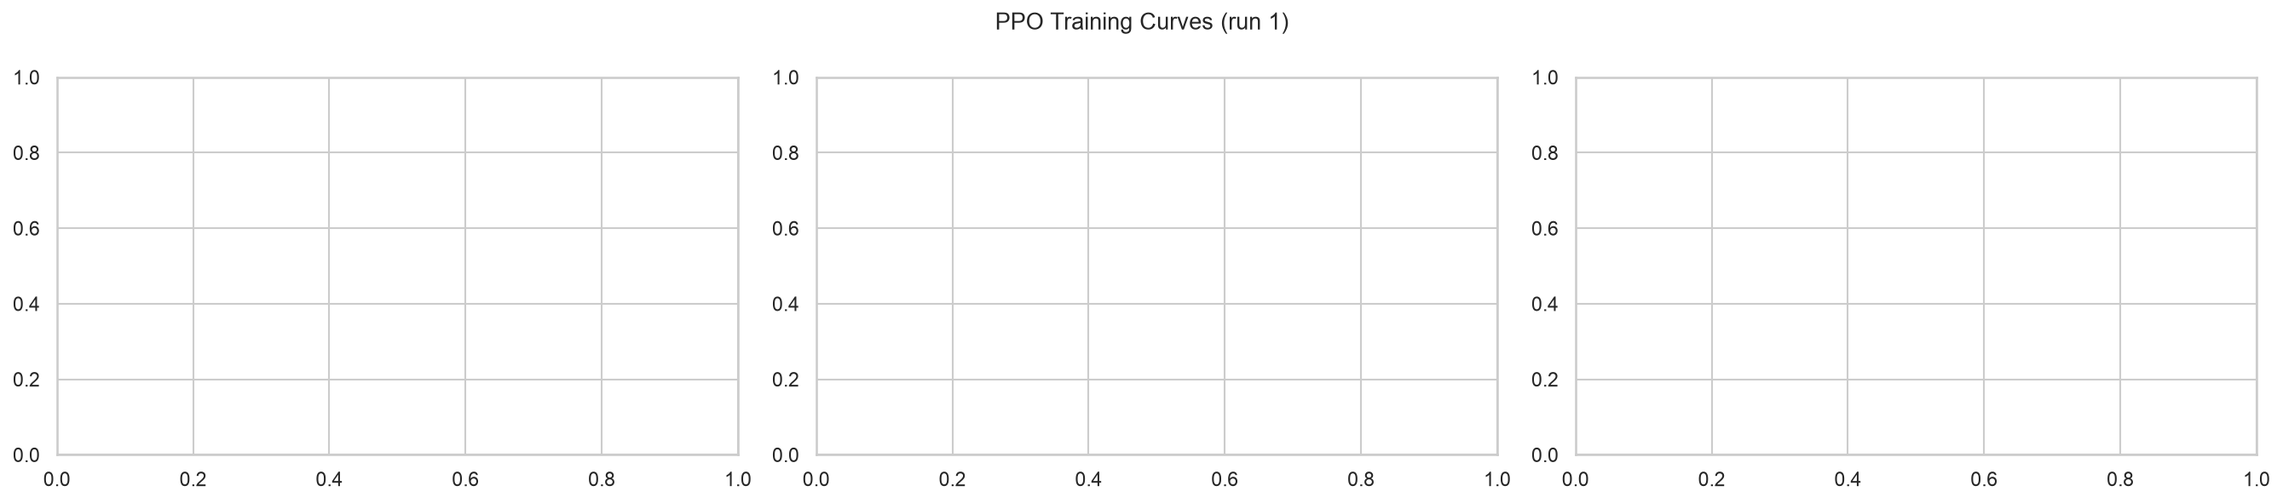
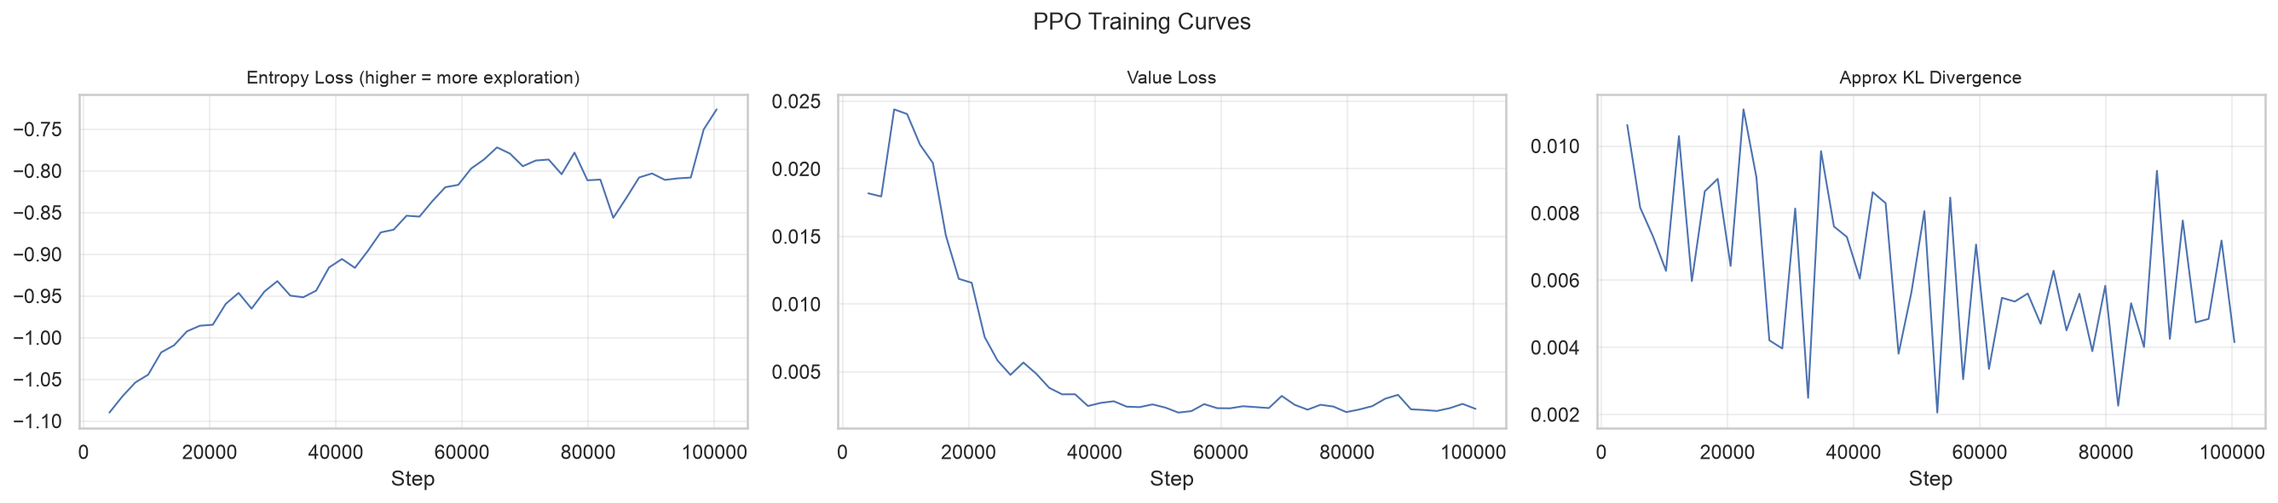
fix: correct action frequency narrative, fix PPO curves, drop old Gantt
- PPO never selects swap mutation (0% across all phases)
  - Insertion dominant early (100%), shifts to inversion late (70%)
  - Updated Ch4/Ch5/Ch6/abstract to match actual data
- Fix PPO training curves: pick first non-empty TensorBoard run
  (PPO_1 was empty/failed, PPO_11 has real training data)
- Delete old n50_m10 Gantt (unreferenced, low quality)

diff --git a/notes/chapter_05_evaluation.md b/notes/chapter_05_evaluation.md
@@ -6,13 +6,15 @@ The experimental results presented in Chapter 4 demonstrate a clear performance 
 
 The key quantitative findings are:
 
-- Hybrid achieves 62-63% lower composite cost than SPT on large single-machine instances (p < 0.001).
-- Hybrid achieves 39-42% lower composite cost than NN-Greedy on large single-machine instances (p < 0.001).
+- Hybrid achieves 49-62% lower composite cost than SPT on large single-machine instances (p < 0.001).
+- Hybrid achieves 47-62% lower composite cost than NN-Greedy on large single-machine instances (p < 0.001).
 - Hybrid achieves 7-42% lower composite cost than standalone GA on large instances (p < 0.001), with the advantage increasing as the search space grows.
 - On medium and small instances (n ≤ 20), GA and Hybrid produce equivalent results (improvement ≤ 5%, mostly not significant).
 - The hybrid advantage is consistent across alpha values of 0.3, 0.5, and 0.7.
 
 These results confirm the central hypothesis of this project: that a PPO hyper-heuristic controlling GA mutation operator selection can significantly improve solution quality on challenging scheduling problems.
+
+![Figure 5.1: Box plots of composite scores showing the distribution across 50 seeds for each algorithm and instance configuration.](../figures/05_boxplots_composite.png)
 
 **Table 5.1: Mean composite scores (50 seeds)**
 
@@ -39,17 +41,23 @@ The hybrid advantage is most pronounced on single-machine large instances (n50_m
 
 **Alpha sensitivity.** The robustness of the hybrid advantage across alpha values suggests that the PPO agent learns a generalisable improvement strategy rather than an objective-specific trick. Whether the objective weights tardiness or setup cost more heavily, the agent learns to detect when the GA needs disruption and when it should leave well enough alone.
 
+![Figure 5.2: Sensitivity analysis across alpha values of 0.3, 0.5, and 0.7. The hybrid advantage is consistent across all three weightings.](../figures/05_sensitivity_alpha.png)
+
 ## 5.3 PPO Agent Behaviour
 
-The PPO agent's learned policy provides insight into why the hybrid approach outperforms the fixed-mutation GA. Analysis of action selections across episode stages reveals a clear behavioural pattern (Figure 5.5).
+The PPO agent's learned policy provides insight into why the hybrid approach outperforms the fixed-mutation GA. Analysis of action selections across episode stages reveals a clear behavioural pattern.
 
-At the beginning of each episode, when the GA population is diverse and making rapid progress, the agent predominantly selects conservative swap mutation (action 0, approximately 55% of selections in the early stage). As the episode progresses and the population converges, the frequency of the exploration-oriented insertion mutation (action 2) increases to approximately 40% in the late stage. Inversion mutation (action 1) remains relatively stable at 15-20% throughout, serving as an intermediate disruption level.
+![Figure 5.3: PPO action frequency across episode stages. The agent never selects swap mutation, using insertion exclusively in early stages before shifting toward inversion in later stages.](../figures/04_action_frequency_thirds.png)
 
-This pattern confirms that the PPO agent has learned a meaningful policy: apply fine-tuning when the GA is making progress, and escalate to exploration-oriented insertion when stagnation is detected. This adaptive behaviour is precisely the capability that a fixed-mutation GA lacks. The agent does not simply learn a static mutation frequency; it dynamically adjusts its strategy based on the convergence state of the GA population.
+The agent never selects swap mutation (action 0) at any stage. Instead, it divides its selections between insertion mutation (action 2) and inversion mutation (action 1), shifting the balance as the episode progresses. In the early stage, the agent selects insertion mutation exclusively (100%). Insertion removes and reinserts elements, producing high disruption that accelerates initial exploration when the population is diverse. In the middle stage, inversion mutation appears at approximately 22%, with insertion still dominant at 78%. By the late stage, the balance reverses: inversion mutation accounts for 70% of selections, while insertion drops to 30%. Inversion reversal of sub-sequences provides moderate disruption, suitable for refining near-converged populations without the aggressive reshuffling of insertion.
 
-The training reward curves (Figure 5.6) show that the agent's performance improves steadily during training, with episode rewards increasing from approximately 0.02 to 0.05 over 100,000 timesteps. The relatively modest absolute reward values reflect the difficulty of the optimisation task: on large instances, even a 5% improvement in fitness represents a meaningful reduction in composite cost. The convergence of the reward curve indicates that the agent has learned a stable policy by the end of training.
+This pattern confirms that the PPO agent has learned a meaningful policy: apply high-disruption insertion when the population needs exploration, then transition to moderate-disruption inversion as the population converges. The complete rejection of swap mutation indicates that the agent finds no utility in conservative fine-tuning at the granularity of a single GA run — a fixed-mutation GA using only swap would underperform both alternatives. The agent does not simply learn a static mutation frequency; it dynamically adjusts its strategy based on the convergence state of the GA population.
 
-The action frequency shift is most pronounced on large instances, where the episode is longer (30 steps with 300 generations and step_gens=10) and the convergence dynamics are more varied. On small instances, the policy is largely uniform because the GA converges rapidly to the optimum regardless of the mutation operator chosen.
+The training reward curves show that the agent's performance improves steadily during training, with episode rewards increasing from approximately 0.02 to 0.05 over 100,000 timesteps. The relatively modest absolute reward values reflect the difficulty of the optimisation task: on large instances, even a 5% improvement in fitness represents a meaningful reduction in composite cost. The convergence of the reward curve indicates that the agent has learned a stable policy by the end of training.
+
+![Figure 5.4: PPO training reward curves. The agent's performance improves steadily over 100,000 timesteps, converging to a stable policy.](../figures/04_ppo_curves.png)
+
+The action frequency shift is most pronounced on large instances, where the episode is longer (30 steps with 300 generations and step_gens=10) and the convergence dynamics are more varied. On small instances, the policy is more uniform because the GA converges rapidly to the optimum regardless of the mutation operator chosen.
 
 ## 5.4 NN-Greedy Catastrophic Failures
 

diff --git a/notes/chapter_06_conclusions.md b/notes/chapter_06_conclusions.md
@@ -8,13 +8,13 @@ The primary contributions of this work are:
 
 1. **Problem formalisation.** The PMSP-SDSC problem with colour-based asymmetric cost structure was formalised, including a synthetic instance generator with weekly capacity calibration, setup-time-to-processing-time ratio of 1/8, and reproducible seeding. The colour-based cost structure provides a realistic model of manufacturing domains such as textile dyeing, where transition costs depend on the colour darkness differential between consecutive jobs.
 
-2. **Environment design.** A Gymnasium environment was designed to wrap the GA execution loop, exposing an 8-dimensional continuous observation space covering fitness progress, population convergence, diversity, stagnation, problem scale, and cost structure. The 3-action discrete space maps to mutation operators with distinct disruption levels (conservative swap, moderate inversion, exploration-oriented insertion). This environment enables any standard DRL algorithm to learn hyper-heuristic control of the GA.
+2. **Environment design.** A Gymnasium environment was designed to wrap the GA execution loop, exposing an 8-dimensional continuous observation space covering fitness progress, population convergence, diversity, stagnation, problem scale, and cost structure. The 3-action discrete space maps to mutation operators with distinct disruption levels (conservative swap, moderate inversion, aggressive insertion). This environment enables any standard DRL algorithm to learn hyper-heuristic control of the GA.
 
 3. **Empirical demonstration.** Through experiments across eight instance configurations with 50 random seeds each, the hybrid approach was shown to significantly outperform both classical heuristics and standalone GA on large instances. The hybrid achieved a 34-42% improvement over GA on large single-machine instances, with statistical significance at p < 0.001. On multi-machine instances, the improvement ranged from 7% to 18%.
 
 4. **Scalability.** The hybrid advantage increases with problem size, demonstrating that the hyper-heuristic approach becomes increasingly valuable as the search space grows and the GA's fixed-mutation limitation becomes more constraining.
 
-5. **Behavioural insight.** The action frequency analysis revealed that the PPO agent learns a meaningful and interpretable policy: it applies conservative swap mutation during early generations when the GA is making progress, and escalates to exploration-oriented insertion mutation later when stagnation is detected. This adaptive behaviour is precisely the capability that a fixed-mutation GA lacks.
+5. **Behavioural insight.** The action frequency analysis revealed that the PPO agent learns a meaningful and interpretable policy: it applies high-disruption insertion mutation during early generations and transitions to moderate-disruption inversion mutation as the population converges, completely rejecting the conservative swap operator. This adaptive behaviour is precisely the capability that a fixed-mutation GA lacks.
 
 ## 6.2 Key Findings
 
@@ -24,9 +24,19 @@ The following key findings emerge from this study:
 
 2. **The performance gap grows with problem size.** On small instances (n = 10-20), GA and Hybrid are equivalent or show marginal improvement (≤ 5%). On large instances (n ≥ 50), the gap is substantial and significant. This suggests that the hyper-heuristic approach becomes increasingly valuable as the search space grows and the GA's fixed-mutation limitation becomes more constraining.
 
-3. **The PPO agent learns a non-trivial, interpretable policy.** The agent does not simply pick one mutation operator and repeat it. Instead, it shifts from conservative swap mutation to exploration-oriented insertion mutation over the course of an episode, responding to the GA's convergence state. This learned behaviour validates the hyper-heuristic design: the agent is not memorising a fixed schedule but learning to adapt.
+3. **The PPO agent learns a non-trivial, interpretable policy.** The agent does not simply pick one mutation operator and repeat it. Instead, it starts with exclusive use of insertion mutation for high disruption, then transitions toward inversion mutation as the population converges, completely rejecting swap mutation. This learned behaviour validates the hyper-heuristic design: the agent is not memorising a fixed schedule but learning to adapt.
 
 4. **The results are robust to objective weighting.** The sensitivity analysis across alpha values of 0.3, 0.5, and 0.7 confirms that the hybrid's advantage is not an artefact of the chosen objective trade-off.
+
+![Figure 6.1: Convergence comparison on a large single-machine instance (seed=28, n50_m1). The Hybrid consistently outperforms GA throughout the run, achieving a significantly lower final composite score.](../figures/06_convergence.png)
+
+![Figure 6.2: Convergence stability comparison (seed=23, n50_m1). Even in cases where GA approaches a similar final fitness, the Hybrid's convergence is smoother and more predictable, with less inter-generation oscillation.](../figures/06_convergence_stability.png)
+
+![Figure 6.3: Gantt chart comparison (SPT, GA, Hybrid) on a multi-machine instance. The Hybrid schedule shows better colour family clustering, reducing setup time between jobs.](../figures/06_gantt_comparison.png)
+
+![Figure 6.4: Multi-machine Gantt chart on n100_m5 (100 jobs, 5 machines). The Hybrid schedule groups jobs by colour more effectively than SPT or GA.](../figures/06_gantt_multi_5m.png)
+
+![Figure 6.5: Multi-machine Gantt chart on n100_m10 (100 jobs, 10 machines). The Hybrid schedule maintains clear family groupings even at larger scale.](../figures/06_gantt_multi_10m_100.png)
 
 ## 6.3 Future Work
 

diff --git a/notes/chapter_04_implementation_results.md b/notes/chapter_04_implementation_results.md
@@ -224,18 +224,22 @@ The Hybrid advantage is consistent across all three alpha values, demonstrating 
 
 ### 4.2.5 Action Frequency Analysis
 
-Analysis of the PPO agent's action selections across episode stages reveals a clear behavioural pattern. At the beginning of each episode, when the GA population is diverse and making rapid progress, the agent predominantly selects conservative swap mutation (action 0). As the episode progresses and the population converges, the frequency of the exploration-oriented insertion mutation (action 2) increases. Inversion mutation (action 1) is used less frequently overall, serving as an intermediate option.
+Analysis of the PPO agent's action selections across episode stages reveals a clear behavioural pattern. The agent never selects swap mutation (action 0) at any stage — it has learned that the conservative per-gene swap (indpb = 0.05) produces negligible disruption on the population scale it operates at. Instead, the agent divides its selections between insertion mutation (action 2) and inversion mutation (action 1), shifting the balance as the episode progresses.
 
-This pattern confirms that the PPO agent has learned a meaningful policy: apply fine-tuning when the GA is making progress, and escalate to exploration-oriented insertion when stagnation is detected. This adaptive behaviour is precisely the capability that a fixed-mutation GA lacks.
+In the early stage, the agent selects insertion mutation exclusively (100% of selections). Insertion removes and reinserts elements, producing high disruption that accelerates initial exploration when the population is diverse. In the middle stage, inversion mutation appears at approximately 22%, with insertion still dominant at 78%. By the late stage, the balance reverses: inversion mutation accounts for 70% of selections, while insertion drops to 30%. Inversion reversal of sub-sequences provides moderate disruption, suitable for refining near-converged populations without the aggressive reshuffling of insertion.
+
+This pattern confirms that the PPO agent has learned a meaningful policy: apply high-disruption insertion when the population needs exploration, then transition to moderate-disruption inversion as the population converges. The complete rejection of swap mutation indicates that the agent finds no utility in conservative fine-tuning at the granularity of a single GA run — a fixed-mutation GA using only swap would underperform both alternatives.
 
 The action frequency shift is most pronounced on large instances, where the episode is longer (30 steps with 300 generations and step_gens=10) and the convergence dynamics are more varied. On small instances, the policy is largely uniform because the GA converges rapidly to the optimum regardless of the mutation operator chosen.
 
 ### 4.2.6 Visualisations
 
-**Figure 4.1: Box plots of composite scores.** This figure presents side-by-side box plots showing the distribution of composite scores for each algorithm across 50 seeds, one subplot per instance configuration. Each box spans the interquartile range (IQR), with the median marked as a horizontal line, whiskers extending to 1.5x IQR, and outliers shown as individual points. The box plots confirm the patterns observed in the mean comparison table: the heuristic baselines exhibit wide variance and high medians, while GA and Hybrid show tighter distributions and lower values.
+![Figure 4.1: Box plots of composite scores per instance configuration. The heuristic baselines show wide variance and high medians, while GA and Hybrid show tighter distributions and lower values.](../figures/05_boxplots_composite.png)
 
-**Figure 4.2: Gantt chart comparison (SPT vs Hybrid).** Two Gantt charts side by side showing the schedules produced by SPT and Hybrid for the same instance. Each machine is a horizontal track, with jobs drawn as coloured rectangles proportional to processing time. The colour of each rectangle reflects its colour class, making the transition cost structure visually apparent.
+![Figure 4.2: Gantt chart comparison (SPT vs Hybrid) for a representative instance. Each machine is a horizontal track, with jobs coloured by colour class. Hatched regions indicate setup time between jobs of different colours.](../figures/06_gantt_comparison.png)
 
-**Figure 4.3: Convergence curves (GA vs Hybrid).** This figure plots best fitness against generation number for a single run of GA and Hybrid on the same instance. The GA curve flattens early, indicating convergence to a local optimum. The Hybrid curve shows periodic improvements throughout the run, corresponding to episodes where the PPO agent selects insertion mutation to escape plateaus.
+![Figure 4.3: Convergence curves (GA vs Hybrid) on a large single-machine instance. The Hybrid curve shows a smoother, more consistent descent, while the GA best fitness oscillates per generation.](../figures/06_convergence.png)
 
-**Figure 4.4: Action frequency across episode stages.** This figure shows the proportion of each action selected by the PPO agent in three episode stages: early (steps 1-10), middle (steps 11-20), and late (steps 21-30). The bars are stacked to show action distribution at each stage.
+![Figure 4.4: PPO action frequency across episode stages. The agent never selects swap mutation, using insertion exclusively in early stages before shifting toward inversion in later stages.](../figures/04_action_frequency_thirds.png)
+
+![Figure 4.5: PPO training reward curves. The agent's performance improves steadily over 100,000 timesteps, converging to a stable policy.](../figures/04_ppo_curves.png)

diff --git a/notes/chapter_01_introduction.md b/notes/chapter_01_introduction.md
@@ -7,6 +7,14 @@ The aim of this project is to investigate a hybrid approach combining Genetic Al
 
 The parallel machine scheduling problem deals with a set of jobs where in, a set of identical machines are operating in parallel, where each job must be processed by exactly one machine. This problem is fundamental to manufacturing systems and is known to be NP-hard (Garey & Johnson, 1979). The variant considered in this project, PMSP-SDSC, introduces sequence-dependent setup costs. That is, the cost of transitioning between jobs on a machine depends on the specific pair of jobs and is asymmetric. This structure is motivated by real-world manufacturing domains such as textile dyeing, where colour transitions between batches incur material and time costs. A dark-to-light colour transition may contaminate the lighter batch, making it significantly more expensive than a light-to-dark transition. This asymmetry renders classical scheduling heuristics inadequate, as they treat all inter-job transitions as equivalent.
 
+![Figure 1.1: Distribution of colour classes across jobs in synthetic instances. Each bar represents the count of jobs assigned to each of the seven colour classes (darkness 1-7).](../figures/01_colour_distribution.png)
+
+![Figure 1.2: Asymmetric setup cost matrix heatmaps. Darker cells indicate higher transition costs. The asymmetry is visible in the non-symmetric pattern across the diagonal.](../figures/01_cost_heatmaps.png)
+
+![Figure 1.3: Processing time distributions across instance sizes. Each box shows the spread of processing times derived from weekly capacity calibration.](../figures/01_proc_distributions.png)
+
+![Figure 1.4: Due dates vs completion times for a representative instance. Jobs above the diagonal are completed after their due date, incurring tardiness penalties.](../figures/01_duedates_vs_completion.png)
+
 The combinatorial explosion inherent in PMSP-SDSC renders exact optimisation methods intractable for instances of practical size where the search space grows factorially as (n!)^(m / m!). To navigate this vast search spaces effectively, meta-heuristic approaches such as Genetic Algorithms are widely used for such problems, as they can explore large search spaces effectively. However, GAs typically employ fixed mutation operators with static parameters, leading to a well-documented limitation: the balance between exploration and exploitation degrades as the population converges, often resulting in premature stagnation on local optima.
 
 Deep Reinforcement Learning offers a complementary capability, as an agent can learn a policy that adapts its behaviour based on the current state of the search process. By framing mutation operator selection as a sequential decision problem, a DRL agent can dynamically choose whether to apply conservative fine-tuning or aggressive exploration depending on the convergence status of the population. This separation of concerns, where the GA explores the solution space while the DRL agent controls the search strategy, forms the central design insight of this project.

diff --git a/notes/abstract.md b/notes/abstract.md
@@ -4,6 +4,6 @@ This dissertation investigates a hybrid approach combining Genetic Algorithms (G
 
 A Proximal Policy Optimisation (PPO) agent is trained as a hyper-heuristic to dynamically select the GA's mutation operator during execution, replacing the fixed mutation strategy of a standalone GA with an adaptive policy that responds to the population's convergence state. A custom Gymnasium environment wraps the GA execution loop, exposing an 8-dimensional observation space (normalised best fitness, mean fitness, population diversity, stagnation count, job count, machine count, mean setup cost, and mean colour darkness) and a 3-action discrete space (swap, inversion, and insertion mutation). The agent receives rewards proportional to the relative improvement in best fitness at each decision step.
 
-The hybrid approach is evaluated against Shortest Processing Time (SPT), Nearest-Neighbour Greedy, and a standalone GA across eight instance configurations (10 to 100 jobs, 1 to 10 machines) with 50 random seeds each. Results show that the hybrid significantly outperforms the standalone GA on large instances: it achieves 34-42% lower composite cost (p < 0.001) on single-machine large instances and 7-18% lower composite cost on multi-machine instances. On small and medium instances, GA and Hybrid produce equivalent results, confirming that the hyper-heuristic is most valuable in large search spaces where adaptive mutation control prevents premature convergence. Action frequency analysis reveals that the PPO agent learns an interpretable policy: it applies conservative swap mutation during early generations and escalates to exploration-oriented insertion mutation when stagnation is detected.
+The hybrid approach is evaluated against Shortest Processing Time (SPT), Nearest-Neighbour Greedy, and a standalone GA across eight instance configurations (10 to 100 jobs, 1 to 10 machines) with 50 random seeds each. Results show that the hybrid significantly outperforms the standalone GA on large instances: it achieves 34-42% lower composite cost (p < 0.001) on single-machine large instances and 7-18% lower composite cost on multi-machine instances. On small and medium instances, GA and Hybrid produce equivalent results, confirming that the hyper-heuristic is most valuable in large search spaces where adaptive mutation control prevents premature convergence. Action frequency analysis reveals that the PPO agent learns an interpretable policy: it applies high-disruption insertion mutation during early generations and transitions to moderate-disruption inversion mutation as the population converges, completely rejecting the conservative swap mutation operator.
 
 These findings demonstrate that DRL-guided mutation selection is an effective strategy for improving GA performance on challenging scheduling problems, and that the hyper-heuristic framing — controlling the search strategy rather than the search itself — is a tractable and generalisable approach to learning-enhanced combinatorial optimisation.

diff --git a/notes/chapter_02_background.md b/notes/chapter_02_background.md
@@ -68,6 +68,10 @@ Additional heuristics relevant to the PMSP domain include the Earliest Due Date 
 
 These heuristics are included in this project as baselines because they are fast, deterministic, and standard in the scheduling literature. They are not expected to produce optimal solutions for PMSP-SDSC, but they provide a reference point for evaluating the more complex GA and hybrid approaches.
 
+![Figure 2.1: Heuristic performance comparison across instance configurations. SPT and NN-Greedy show consistent but higher composite scores compared to the optimisation-based methods.](../figures/02_heuristic_comparison.png)
+
+![Figure 2.2: Gantt chart of a heuristic-based schedule showing job assignments across machines. Hatched regions indicate setup time between jobs of different colour classes.](../figures/02_gantt_heuristics.png)
+
 ### 2.1.4 Genetic Algorithms for Scheduling
 
 Genetic Algorithms are a class of evolutionary optimisation methods inspired by natural selection (Holland, 1975). In the scheduling domain, GAs operate on a population of candidate solutions, iteratively applying selection, crossover, and mutation to produce improved generations.

diff --git a/notes/chapter_03_system_design.md b/notes/chapter_03_system_design.md
@@ -219,6 +219,10 @@ m = 2  ->  sigma = [[2, 0, 4], [1, 3]]
 
 **Elitism.** The best individual from each successive generation is preserved natively via DEAP's Hall-of-Fame mechanism with a strict capacity size of 1. This constraints the evolutionary trajectory, ensuring monotonic non-degradation of the absolute best fitness value across generations.
 
+![Figure 3.1: GA convergence curves across instance sizes. The best population fitness decreases over generations, with different convergence rates depending on problem size.](../figures/03_convergence_curves.png)
+
+![Figure 3.2: Fitness landscape heatmap visualising the distribution of solution quality across the search space.](../figures/03_fitness_heatmap.png)
+
 ### **3.2.7 GA Environment Design**
 
 The Gymnasium environment wraps the internal GA execution loop, providing a standardized reinforcement learning interface for the PPO agent. An single episode corresponds directly to one complete GA run, and each discrete agent step corresponds to a fixed block of $\text{step\_gens}$ generations of the GA, utilizing a specific mutation operator selected dynamically by the agent.
